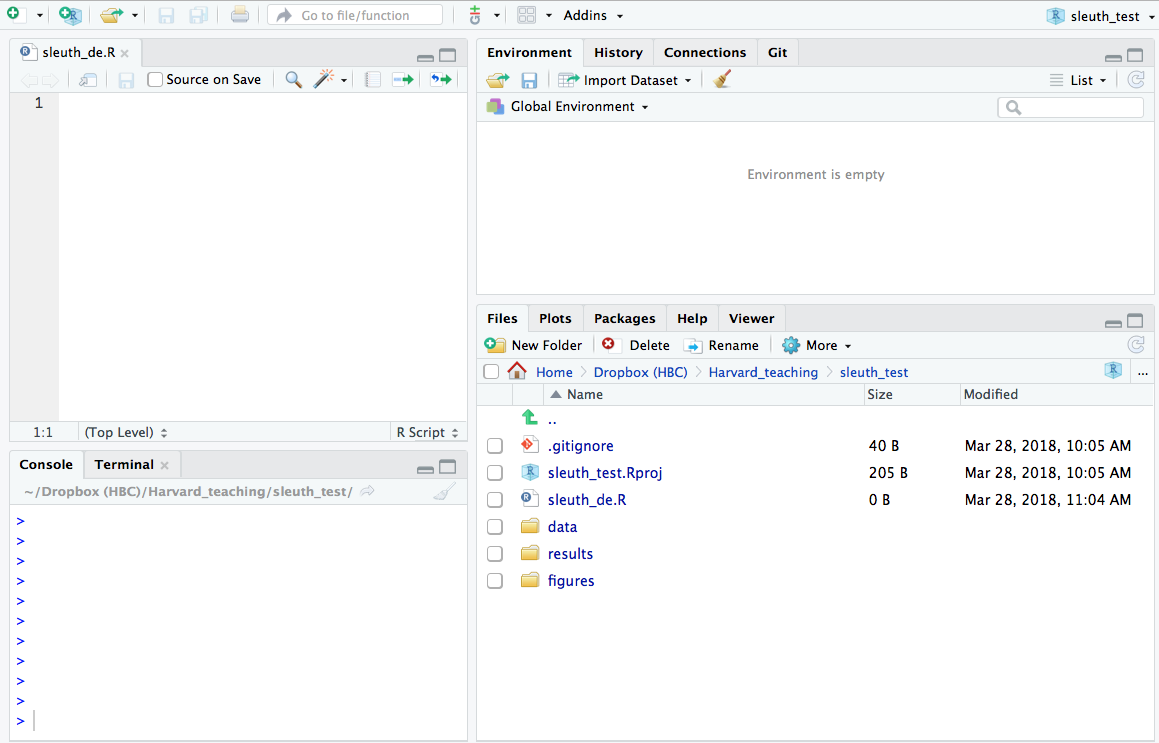
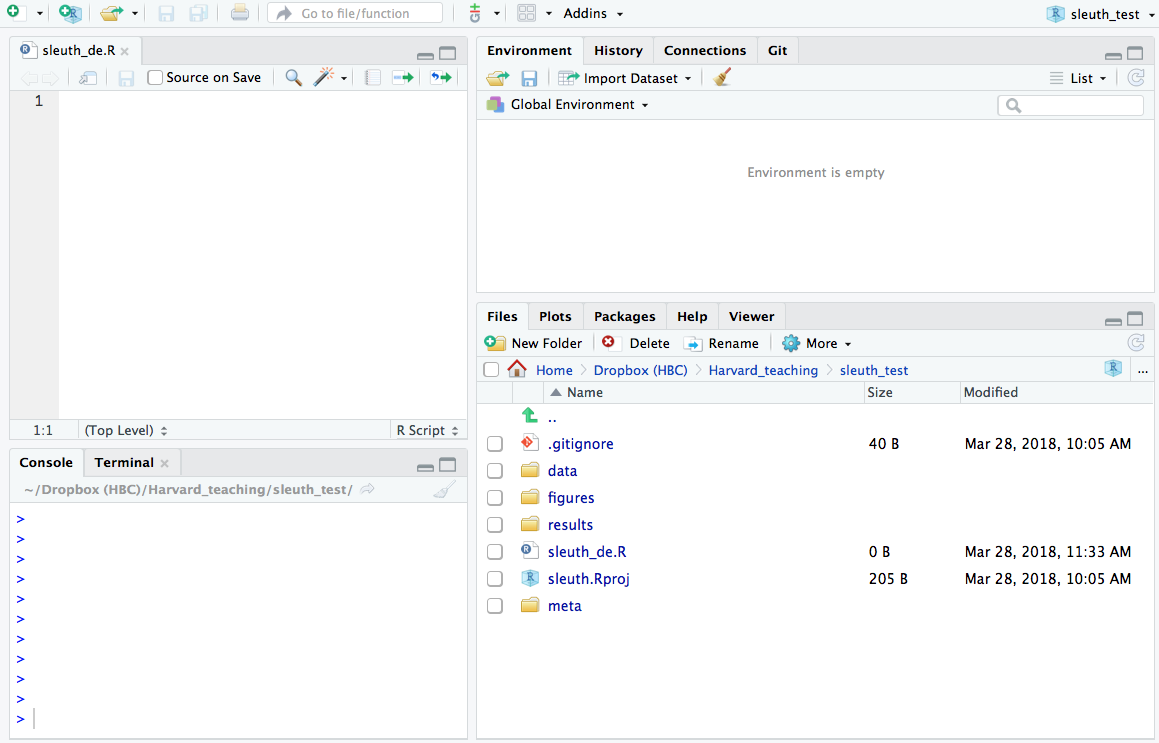
Updating sleuth lesson

diff --git a/lessons/09_sleuth.md b/lessons/09_sleuth.md
@@ -30,6 +30,12 @@ Due to the statistical procedure required to assign reads to gene isoforms, in a
 
 Sleuth accounts for this technical variability by using **bootstraps as a proxy for technical replicates**, which are used to model the variability in the abundance estimates. Bootstrapping essentially **calculates the abundance estimates for all genes using a different sub-sample of reads** during each round of bootstrapping. The variation in the abundance estimates output from each round of bootstrapping is used for the estimation of the technical variance for each gene. 
 
+<p align="center">
+  <img src="../img/sleuth_tech_var.png" width="600"/>
+</p>
+
+_Adapted from: Nature Methods **14**, 687–690 (2017)_
+
 Sleuth models the unobserved true abundance (logarithm of true counts) using a general linear model, but includes the technical variance (variance between bootstrapping runs) as error in the response variable. 
 
 <p align="center">
@@ -43,7 +49,7 @@ The observed (log) abundance estimates represent the sum of the true counts and 
   <img src="../img/sleuth_formula2.png" width="425"/>
 </p>
 
-In addition to performing differential expression analysis of transcripts, the sleuth tool also provides an html interface allowing exploration of the data and differential expression results interactively. More information about the theory/process for sleuth is available in [this blogpost](https://liorpachter.wordpress.com/2015/08/17/a-sleuth-for-rna-seq/) and step-by-step instructions are available in [this tutorial](https://rawgit.com/pachterlab/sleuth/master/inst/doc/intro.html).
+In addition to performing differential expression analysis of transcripts, the sleuth tool also provides an html interface allowing exploration of the data and differential expression results interactively. More information about the theory/process for sleuth is available in the [Nature Methods paper](https://www-nature-com.ezp-prod1.hul.harvard.edu/articles/nmeth.4324), this [blogpost](https://liorpachter.wordpress.com/2015/08/17/a-sleuth-for-rna-seq/) and step-by-step tutorials are available on the [sleuth website](https://pachterlab.github.io/sleuth/walkthroughs).
 
 ***NOTE:*** *Kallisto is distributed under a non-commercial license, while Sailfish and Salmon are distributed under the [GNU General Public License, version 3](http://www.gnu.org/licenses/gpl.html).*
 
@@ -59,10 +65,10 @@ Let's get started by setting up our directory. First let's copy over our metadat
 You can download the directory with the quant.sf files for the 8 full datasets using the link below. 
 
 1. Create a new RStudio project entitled `sleuth`.
-2. Create the directory structure inside the project with folders for `data`, `results`, and `figures`.
+2. Create the directory structure inside the project with folders for `data`, `meta`, `results`, and `figures`.
 3. [Download Salmon files](https://www.dropbox.com/sh/cc7oz36fy4zbow0/AACtAZ5Y8ISlIa4uV5UOTNgTa?dl=0) and move the files to the `data` directory.
 4. Decompress (unzip) the zip archive by double-clicking on the file.
-5. [Download the metadata]() associated with the Salmon files to the `data` directory.
+5. Download the **metadata** associated with the Salmon files by **right-clicking [this link](https://github.com/hbctraining/DGE_workshop/blob/master/data/Mov10_full_meta.txt)** and selecting `Download Linked File` or `Save Linked File As` and saving to the `meta` directory.
 6. Open up a new R script ('File' -> 'New File' -> 'Rscript'), and save it as `sleuth_de.R`
 
 The directory structure should now look like:
@@ -74,18 +80,13 @@ The directory structure should now look like:
 
 ### Loading libraries
 
-Before starting, let's set our working directory to the `rnaseq` folder:
-
-```R
-setwd("~/ngs_course/rnaseq")
-```
-and load the libraries for wasabi and sleuth, which is already installed on Orchestra. Sleuth also has a couple of dependencies and requires these other packages be loaded, as well: `biomaRt`, and `dplyr` (automatically available from Orchestra):
+To perform any analysis, we need to load the libraries for wasabi and sleuth. Sleuth also has a dependency for `biomaRt`, so this package will be loaded as well:
 
 ```R
 library(wasabi)
 library(sleuth)
 library(biomaRt)
-library(dplyr)
+library(annotables)
 ```
 
 ## Using Wasabi to convert Salmon output for Sleuth
@@ -97,7 +98,7 @@ First, we create a simple vector containing the paths to the directories contain
 Now, let's use this function to create our list of the paths to our transcript abundance files:
 
 ```R
-sf_dirs <- file.path("salmon", c("Mov10_kd_2.salmon", "Mov10_kd_3.salmon", "Mov10_oe_1.salmon", "Mov10_oe_2.salmon", "Mov10_oe_3.salmon","Irrel_kd_1.salmon", "Irrel_kd_2.salmon", "Irrel_kd_3.salmon"))
+sf_dirs <- file.path("data", "salmon", c("Mov10_kd_2.salmon", "Mov10_kd_3.salmon", "Mov10_oe_1.salmon", "Mov10_oe_2.salmon", "Mov10_oe_3.salmon","Irrel_kd_1.salmon", "Irrel_kd_2.salmon", "Irrel_kd_3.salmon"))
 
 sf_dirs
 ```
@@ -111,6 +112,10 @@ prepare_fish_for_sleuth(sf_dirs)
 Each of the sample directories should now contain the `abundance.h5` files. These 
 files will be used as input to Sleuth.
 
+<p align="center">
+  <img src="../img/sleuth_abund_h5.png" width="600"/>
+</p>
+
 ## Sleuth for estimation of differential expression of transcripts
 
 ![sleuth](../img/sleuth_workflow.png)
@@ -121,9 +126,9 @@ The workflow for Sleuth is similar to the workflow followed for DESeq2, even tho
 
 **Step 2:** Fit the sleuth model
 	
-- Estimation of size (normalization) factors using the median of ratios method, similar to DESeq2 
+- Estimation of size (normalization) factors using the median of ratios method (similar to DESeq2)
 	
-- Normalization of estimated counts using size factors (est. counts / size factors)
+- Normalization of estimated counts using size factors (est. counts / size factors - similar to DESeq2)
 
 - Filtering of low abundance transcripts (< 5 est counts in more than 47% of the samples)
 
@@ -133,7 +138,9 @@ The workflow for Sleuth is similar to the workflow followed for DESeq2, even tho
 	
 - Parameter estimation and estimation of variance using the general linear model.
 
-- Identification of coefficients indicating overall expression strength and Beta values for estimating fold changes	
+- Identification of:
+	- **Coefficients:** indicating overall expression strength
+	- **Beta values:** estimating fold changes	
 
 **Step 3:** Test for significant differences between conditions
 
@@ -176,9 +183,18 @@ summarydata
 Then we make sure the metadata and count estimate sample names match:
 
 ```r
-# Name the directory paths for the abundance files with their corresponding sample IDs
+# Make sure the order of the `sfdirs` created above matches the order of samples in the `summarydata` rownames
 
-## Make sure the order of the `sfdirs` created above matches the order of samples in the `summarydata` rownames
+sf_dirs_samples <- sf_dirs %>%
+  basename %>% 
+  str_replace(pattern = "\\.salmon", "")
+
+all(sf_dirs_samples == rownames(summarydata))
+```
+Now, we can name the vector of directory paths with the corresponding sample names
+
+```r
+# Name the directory paths for the abundance files with their corresponding sample IDs
 
 names(sf_dirs) <- rownames(summarydata)
 
@@ -199,6 +215,7 @@ Sleuth requires a column entitled "sample" containing the sample names:
 
 ```r
 # Adding a column named 'sample'
+
 sfdata$sample <- rownames(sfdata)
 ```
 
@@ -281,7 +298,7 @@ models(so)
 > # DO NOT RUN!
 > summarydata$sampletype <- relevel(summarydata$sampletype, ref = "MOV10_knockdown")
 >```
->***An ordered factor will not give interpretable output, so do not order the factor using the factor() function, use relevel() >instead.***
+>***An ordered factor will not give interpretable output, so do not order the factor using the factor() function, use relevel() instead.***
 
 ### Step 3: Test significant differences between conditions using the Wald test
 
@@ -299,74 +316,10 @@ oe <- sleuth_wt(so, 'sampletypeMOV10_overexpression')
 sleuth_results_oe <- sleuth_results(oe, 'sampletypeMOV10_overexpression', show_all = TRUE)
 ```
 
-### Save R objects to file to transfer to local machine
-
-Now that we have all of the analyses performed, we need to bring the output to our local machines for further exploration. The `save()` function works to write an R object to file, and takes the files to include in the R object as arguments.
-
-```r
-save("oe", "summarydata", "sleuth_results_oe", file="sleuth/oe.RData")
-```
-
-We have completed the generation of the sleuth differential expression results on Orchestra, we can now **quit R (`q()`)** .
-
-You should now be back in the Orchestra shell window. Now copy all of the R library installations from our folder so that you have all packages needed to run Sleuth to your own personal folder.
-
-```bash
-$ cp -r /home/mp298/R/library/* ~/R/library
-```
-
-**The next command is needed to make sure that next time you install packages they are installed to your own home directory.*** 
-
-```bash
-$ echo 'R_LIBS_USER="~/R/library"' >  $HOME/.Renviron
-```
-
-## Exploration of differential expression results
-
-### Set-up for local R session
-
-Before we begin to explore our results, we need to **copy over the `oe.RData` file to our local machine using Filezilla** or `scp`.
-
-If using `scp`, you need to open the Terminal on the local machine and type:
-
-```bash
-$ scp username@transfer.orchestra.med.harvard.edu:/home/username/ngs_course/rnaseq/sleuth/oe.RData Desktop
-```
-
-> **NOTE:** If the oe.RData file didn't write, you can copy over a back-up we have created:
-> ```bash
-> $ scp username@transfer.orchestra.med.harvard.edu:/groups/hbctraining/ngs-data-analysis-longcourse/rnaseq/snapshots/sleuth/oe.RData Desktop
-> ```
-
-**Open up RStudio and create a new project called `sleuth`.**
-
-Within RStudio we need to install and load Sleuth similar to what we did on Orchestra:
-
-```r
-# Install the sleuth package on your local machine
-
-source("http://bioconductor.org/biocLite.R")
-biocLite("devtools")    # only if devtools not yet installed
-biocLite("pachterlab/sleuth")
-install.packages("dplyr") # only if dplyr not yet installed
-
-# Load the sleuth library
-
-library(sleuth)
-library(dplyr)
-```
-
-After the R object has successfully transferred, you can load the object into your new R project using `load()` or by double-clicking on the `oe.RData` object in the RStudio file directory:
-
-```r
-load("~/Desktop/oe.RData")
-```
-
-Move `oe.RData` into the `sleuth` folder.
-
+The output should have the results of the differential expression testing
 ### Exploring transcript-level expression between samples
 
-Now that we have our environment set up, we can perform some exploratory analyses. Sleuth offers us the option to explore the data and results interactively using a web interface. 
+Now we can perform some exploratory analyses. Sleuth offers us the option to explore the data and results interactively using a web interface. 
 
 ```r
 sleuth_live(oe)
